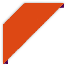
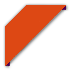
more tweaks

Changed region(s): [[0.0303, 0.0303, 0.9697, 0.9697]]

diff --git a/softwarecenter/ui/gtk3/views/catview_gtk.py b/softwarecenter/ui/gtk3/views/catview_gtk.py
@@ -207,6 +207,10 @@ class LobbyViewGtk(CategoriesViewGtk):
     def _append_top_of_the_pops(self):
         self.totp_hbox = Gtk.HBox(spacing=self.SPACING)
 
+        alignment = Gtk.Alignment()
+        alignment.set_padding(0, 0, self.PADDING, self.PADDING)
+        alignment.add(self.totp_hbox)
+
         frame = FramedHeaderBox()
         frame.header_implements_more_button()
         frame.set_header_label(_("Most Popular"))
@@ -216,11 +220,7 @@ class LobbyViewGtk(CategoriesViewGtk):
         label.set_size_request(-1, 200)
 
         frame.add(label)
-
-        alignment = Gtk.Alignment()
-        alignment.set_padding(0, 0, self.PADDING, 0)
-        alignment.add(frame)
-        self.totp_hbox.add(alignment)
+        self.totp_hbox.add(frame)
 
         frame = FramedHeaderBox()
         frame.header_implements_more_button()
@@ -231,13 +231,9 @@ class LobbyViewGtk(CategoriesViewGtk):
         label.set_size_request(-1, 200)
 
         frame.add(label)
+        self.totp_hbox.add(frame)
 
-        alignment = Gtk.Alignment()
-        alignment.set_padding(0, 0, self.PADDING, 0)
-        alignment.add(frame)
-        self.totp_hbox.add(alignment)
-
-        self.vbox.pack_start(self.totp_hbox, False, False, 0)
+        self.vbox.pack_start(alignment, False, False, 0)
         return
 
     def _append_video_clips(self):

diff --git a/softwarecenter/ui/gtk3/widgets/containers.py b/softwarecenter/ui/gtk3/widgets/containers.py
@@ -281,9 +281,9 @@ class Frame(Gtk.Alignment):
         # corner-label.png image...
 
         # alter the to allow drawing outside of the widget bounds
-        cr.rectangle(-8, -8, w+4, h+4)
+        cr.rectangle(-10, -10, w+4, h+4)
         cr.clip()
-        cr.set_source_surface(surf, -5, -6)
+        cr.set_source_surface(surf, -7, -8)
         cr.paint()
         # render label
         ex = layout.get_pixel_extents()[1]
